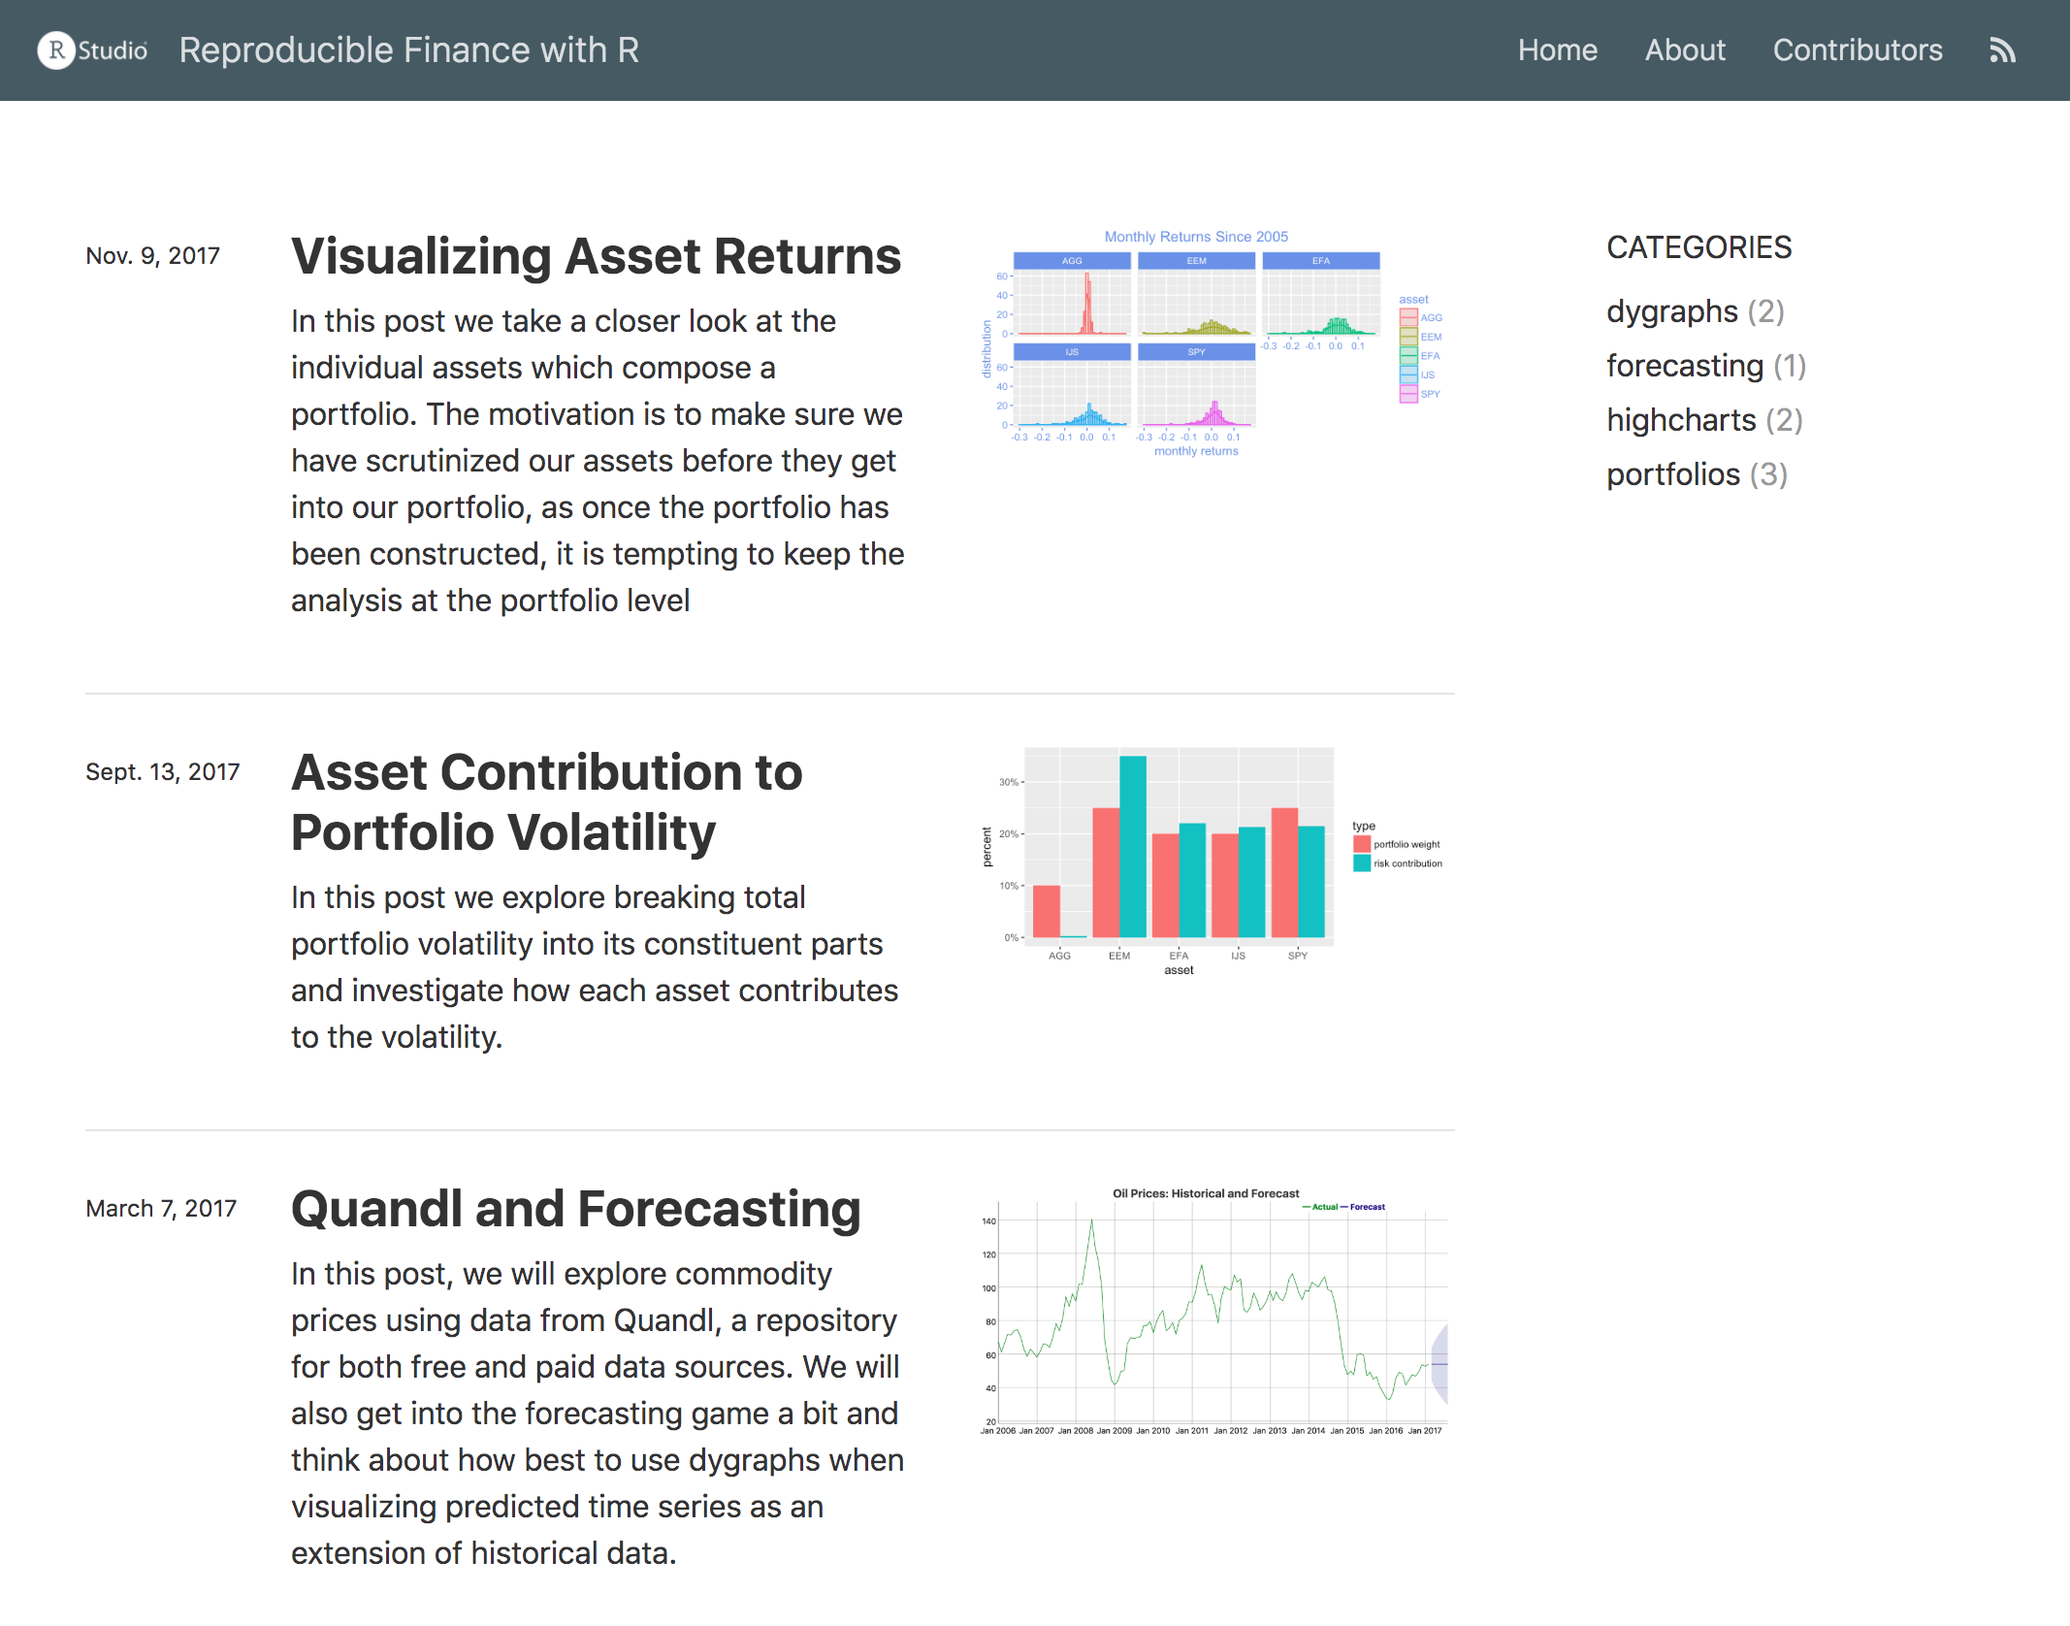
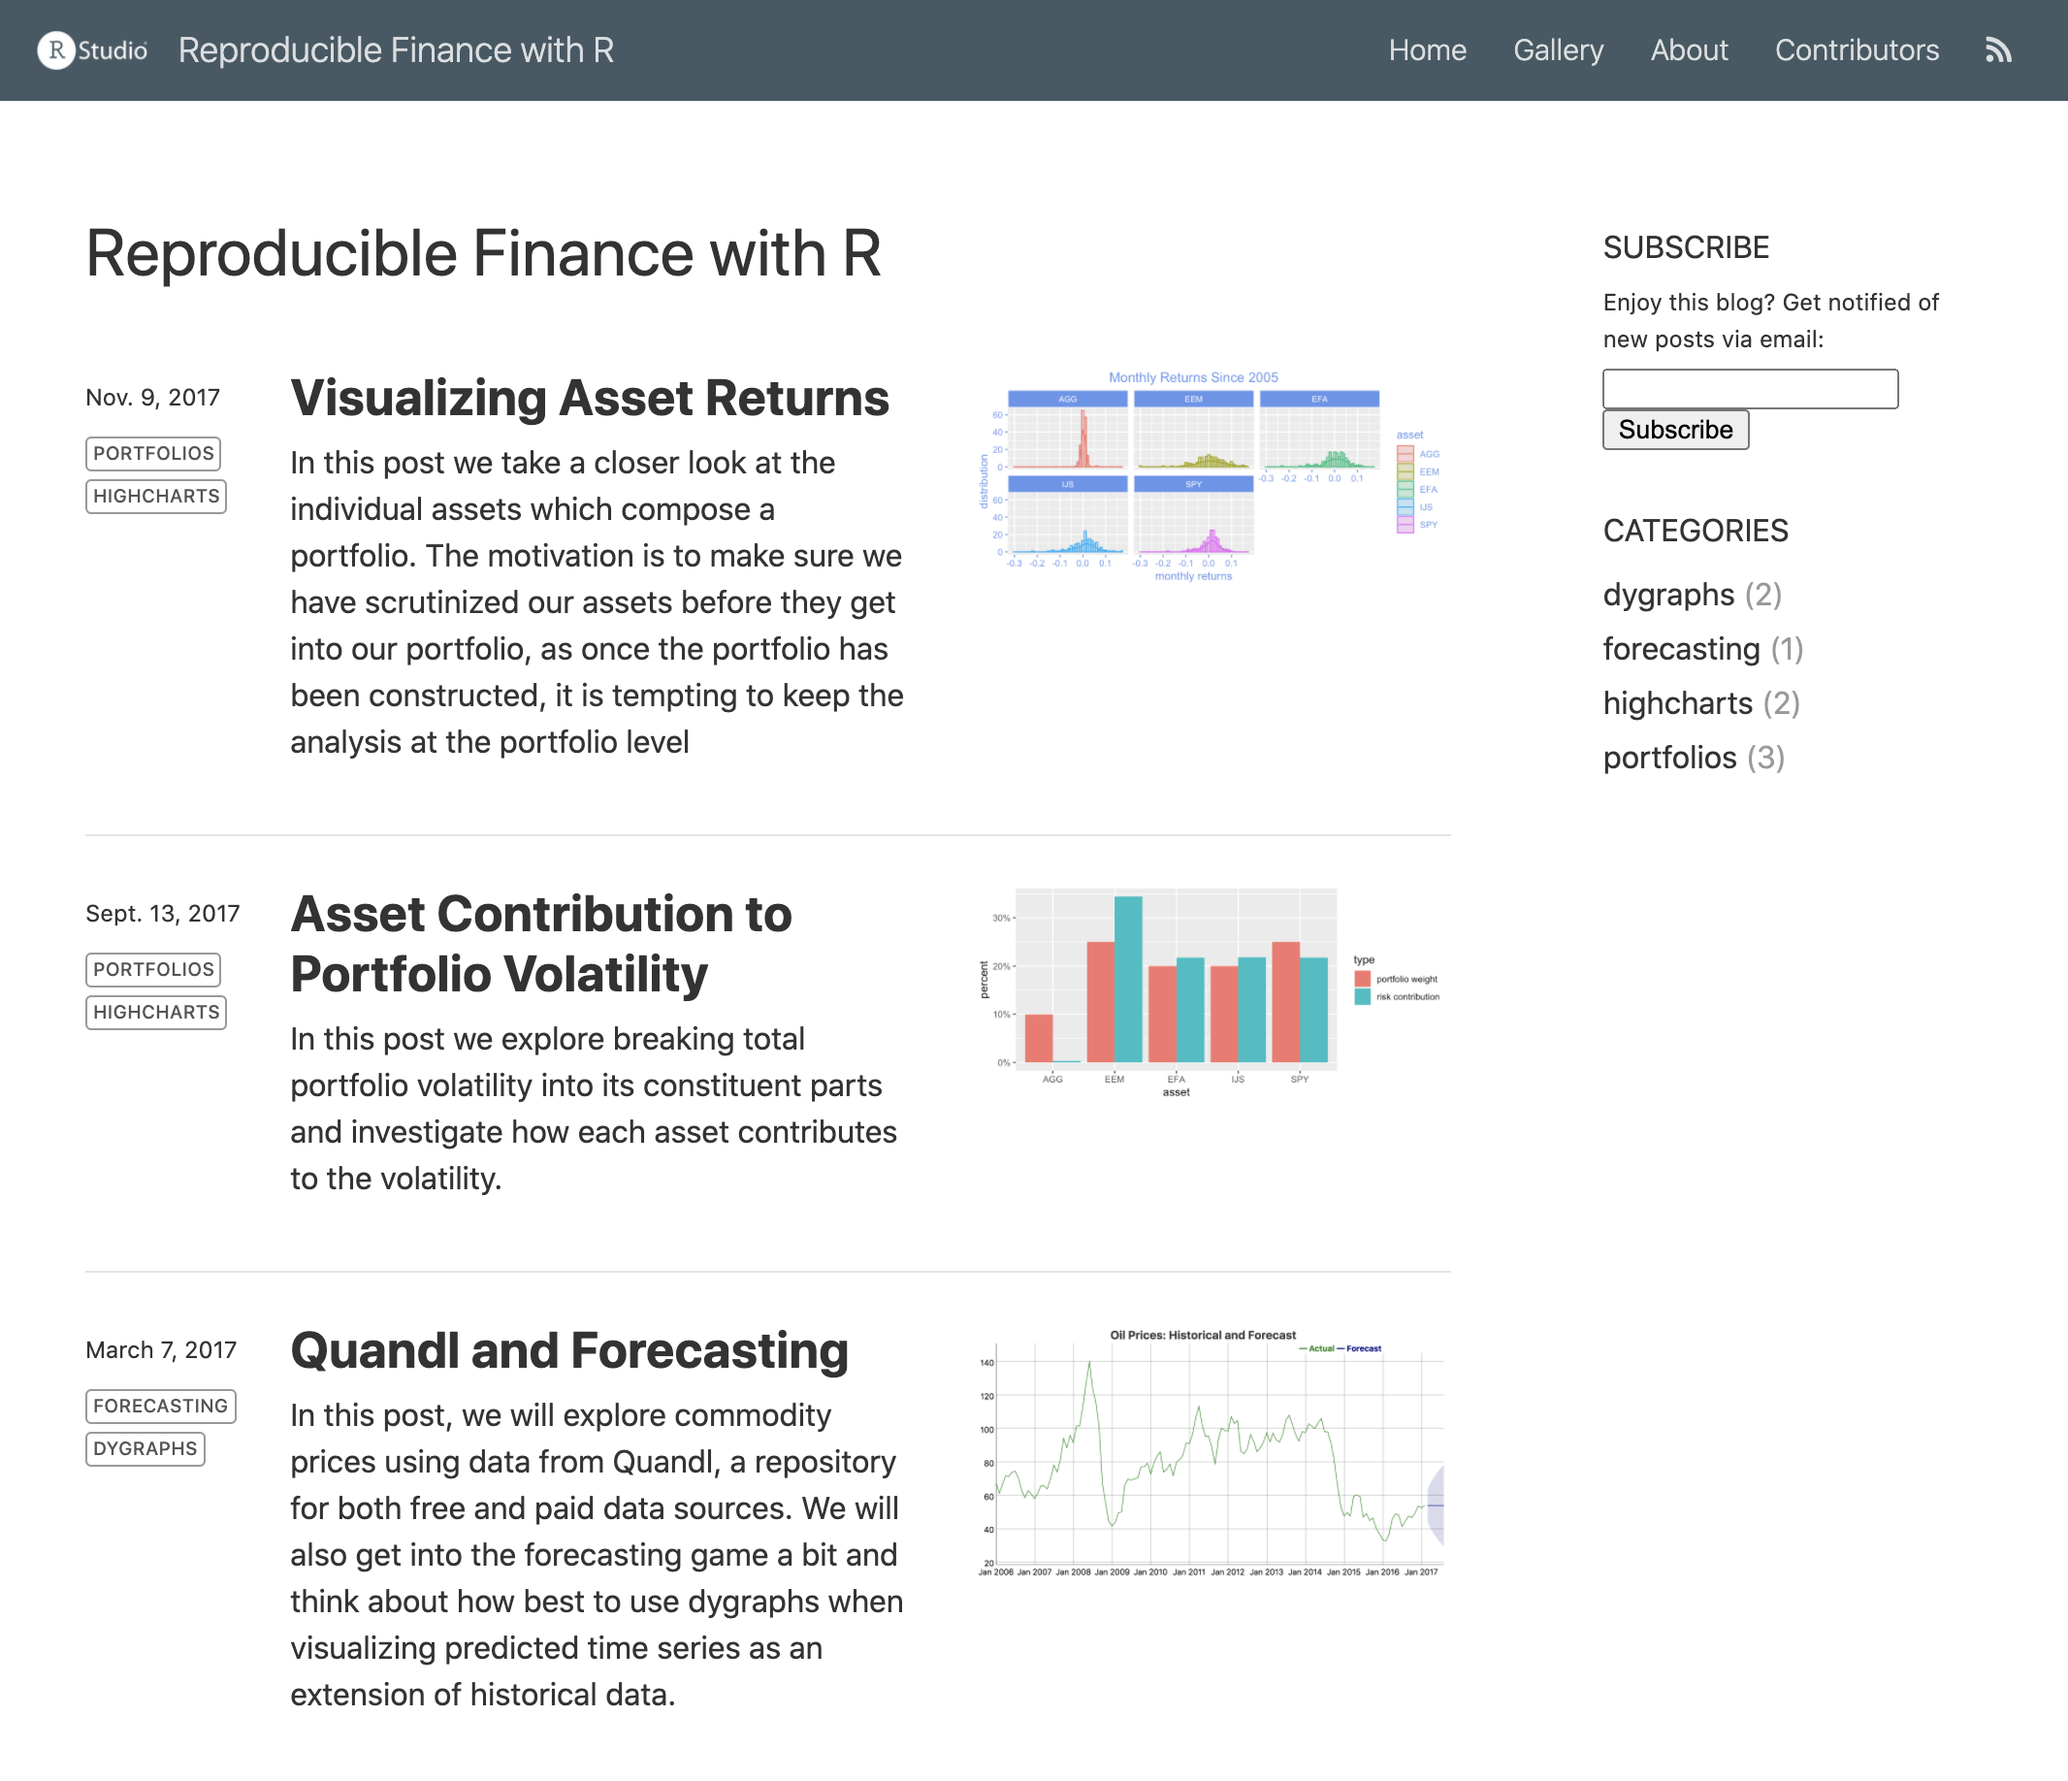
show article categories as buttons per article on listing page.

diff --git a/docs/blog.html b/docs/blog.html
@@ -1544,7 +1544,7 @@ listing:
     - 2017-09-13-asset-volatility 
 ---</code></pre>
 <h4 id="categories">Categories</h4>
-<p>If your posts include <code>categories</code> metadata, then the page will also include category links to the right of the article listing. For example, here is some post metadata that includes categories:</p>
+<p>If your posts include <code>categories</code> metadata, then the page will also include categories within the article listing. For example, here is some post metadata that includes categories:</p>
 <pre class="markup"><code>
 ---
 title: &quot;The Sharpe Ratio&quot;
@@ -1554,6 +1554,19 @@ categories:
   - dygraphs</code></pre>
 <p>As a result of including <code>categories</code>, the listing page now looks like this:</p>
 <p><img src="images/site-listing-categories.png" class="screenshot" style="width:95.0%" /></p>
+<p>Categories are listed in the right-hand sidebar and are also displayed as metadata for each post. You can disable either of both category displays using <code>collection</code> properties defined in <code>_site.yml</code>. For example:</p>
+<p><strong>_site.yml</strong></p>
+<pre class="markup"><code>
+name: &quot;reproducible-finance-with-r&quot;
+title: &quot;Reproducible Finance with R&quot;
+description: |
+  Exploring reproducible finance with the R statistical 
+  computing environment.
+base_url: https://beta.rstudioconnect.com/content/11424/
+collections:
+  posts:
+    categories: false
+    categories_metadata: false</code></pre>
 <h3 id="rss-feeds">RSS feeds</h3>
 <p>When you create a listing page an <a href="https://en.wikipedia.org/wiki/RSS">RSS feed</a> is created automatically for the page (using the name of the listing page with a <code>.xml</code> file extension). You can link to the RSS feed within your site’s navigation bar as follows (some navbar entries excluded for brevity):</p>
 <p><strong>_site.yml</strong></p>

diff --git a/inst/rmarkdown/templates/distill_article/resources/listing.html b/inst/rmarkdown/templates/distill_article/resources/listing.html
@@ -90,13 +90,17 @@
 }
 
 .posts-list .metadata .tags {
+  display: block;
   margin-top: 1em;
+  margin-right: 1em;
 }
 
 .posts-list .tags .tag {
+  display: inline-block;
   color: rgba(0,0,0,0.67);
-  padding: 0.3em 0.5em;
-  margin: 0;
+  padding: 0em 0.3em;
+  margin-right: 0.2em;
+  margin-bottom: 0.4em;
   font-size: 80%;
   border: 1px solid rgba(0,0,0,0.4);
   border-radius: 3px;
@@ -292,6 +296,12 @@ function init_posts_list() {
       $('.posts-more a').addClass('hidden');
     }
   }
+
+  // click handling for tags
+  $('.tag').click(function(ev) {
+    window.location.hash = '#' + $(this).text().replace(/ /g, "_");
+    return false;
+  })
 
   // hash filter handling
   apply_hash_filter();

diff --git a/docs/news.html b/docs/news.html
@@ -1414,6 +1414,7 @@ Publishing
 <li><p>Use pandoc rather than distill framework for bibliography generation. Provides support for <code>csl</code> and <code>nocite</code> as well as use of multiple bibliographies (including non-BibTeX ones). Eliminates distill framework provided mouse-over citation display, but users seem to value the Pandoc features more than this one.</p></li>
 <li><p>Don’t apply table td/th bottom border styles to gt tables.</p></li>
 <li><p>Support for <code>orcid_id</code> author metadata (displays next to author name).</p></li>
+<li><p>Show article categories as buttons per article on listing page.</p></li>
 </ul>
 <h2 id="distill-v0.8-cran">distill v0.8 (CRAN)</h2>
 <ul>

diff --git a/NEWS.md b/NEWS.md
@@ -6,6 +6,8 @@
 
 -   Support for `orcid_id` author metadata (displays next to author name).
 
+-   Show article categories as buttons per article on listing page.
+
 ## distill v0.8 (CRAN)
 
 -   Generate RSS category feeds using rss/categories in site config
